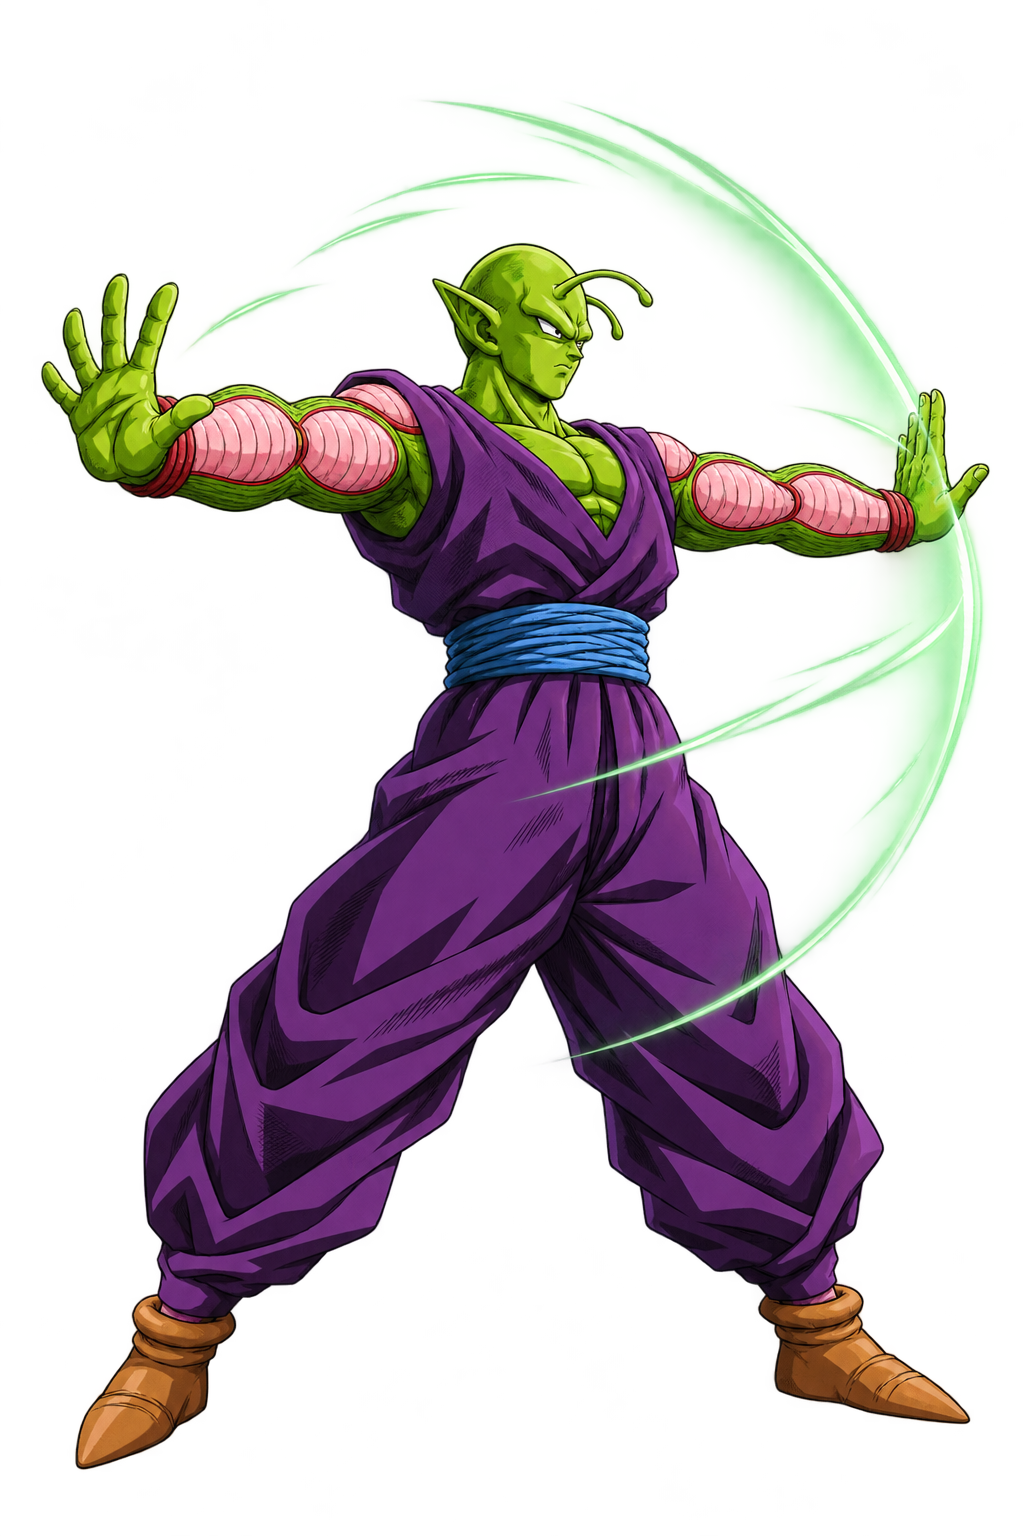
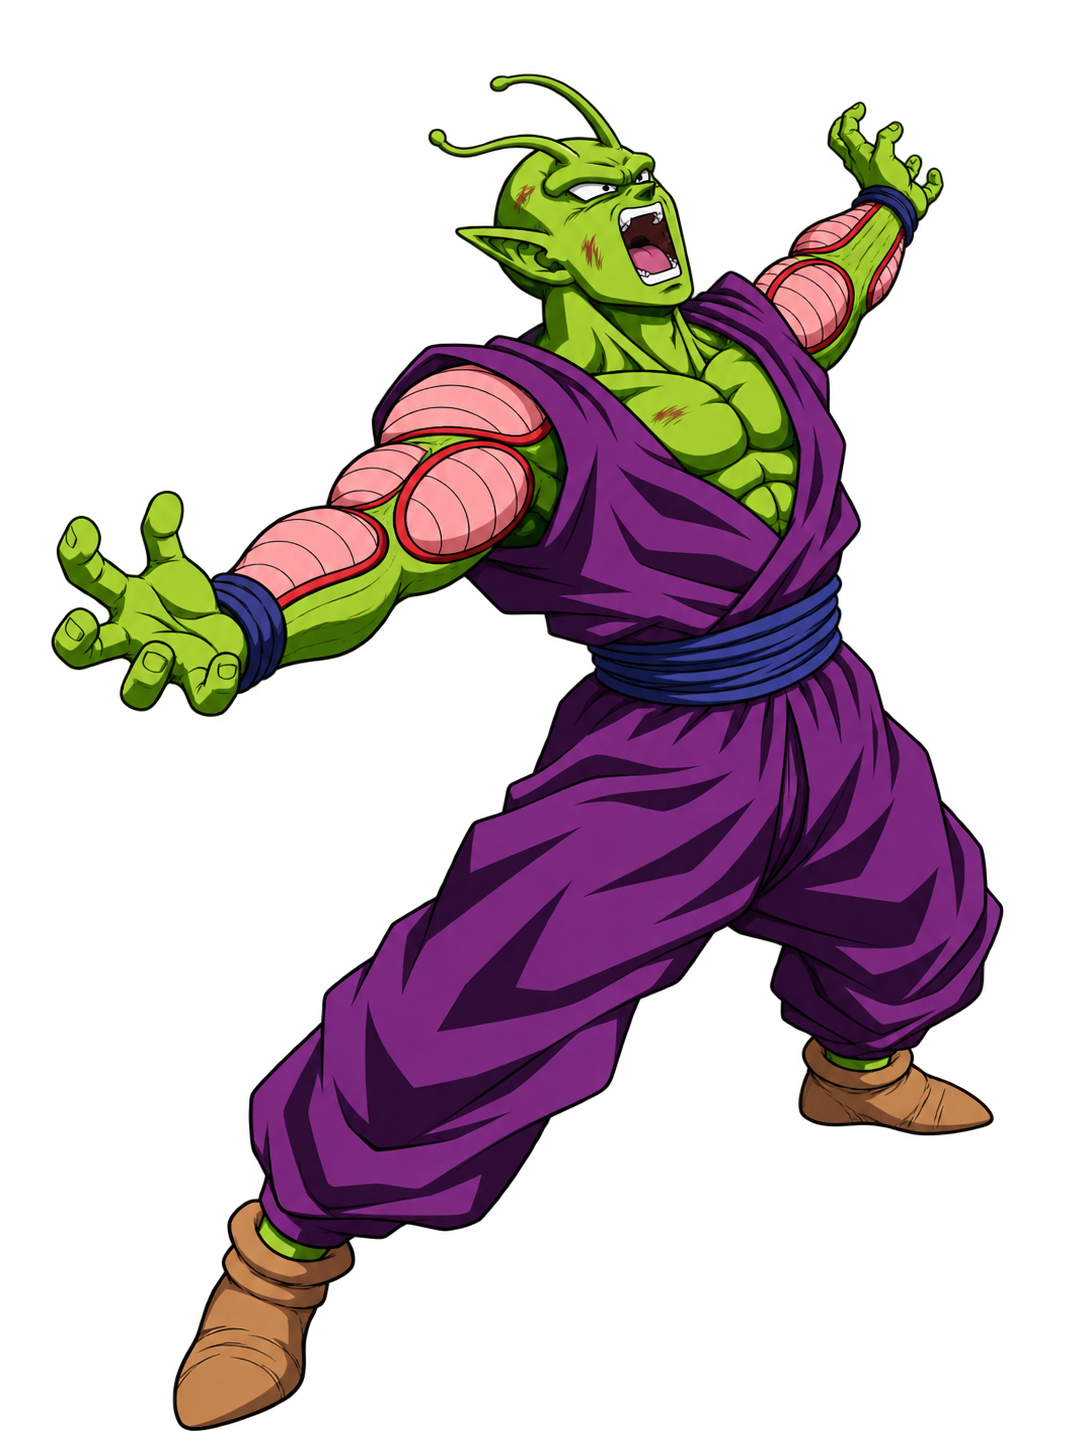
art: integrate approved Piccolo portrait and reference workflow

diff --git a/Tools/InspectPortraits.cs b/Tools/InspectPortraits.cs
@@ -8,7 +8,9 @@ class InspectPortraits {
  static void Main(string[] args){try{
   var files=Directory.GetFiles(args[0],"*-portrait.png");if(files.Length!=9&&args.Length<2)throw new Exception("Expected 9 independent portraits");
   foreach(var path in files)using(var png=new Bitmap(path)){
-   int w=png.Width,h=png.Height;if(w!=1024||h!=1536)throw new Exception("Unexpected portrait resolution: "+path);
+   int w=png.Width,h=png.Height;
+   bool expectedSize=Path.GetFileName(path)=="piccolo-test-portrait.png"?w==1086&&h==1448:w==1024&&h==1536;
+   if(!expectedSize)throw new Exception("Unexpected portrait resolution: "+path);
    var locked=png.LockBits(new Rectangle(0,0,w,h),ImageLockMode.ReadOnly,PixelFormat.Format32bppArgb);
    byte[] pixels=new byte[locked.Stride*h];Marshal.Copy(locked.Scan0,pixels,0,pixels.Length);int stride=locked.Stride;png.UnlockBits(locked);
    int clear=0,solid=0,edge=0;
@@ -17,7 +19,7 @@ class InspectPortraits {
     if(alpha>64&&(x<3||x>=w-3||y<3||y>=h-3))edge++;
    }
    if(clear<w*h/5||solid<w*h/20||edge>8)throw new Exception("Portrait transparency/content/margin failed: "+Path.GetFileName(path)+" clear="+clear+" solid="+solid+" edge="+edge);
-   Console.WriteLine("PORTRAIT_PASS "+Path.GetFileName(path)+" 1024x1536 / alpha / margins");
+   Console.WriteLine("PORTRAIT_PASS "+Path.GetFileName(path)+" "+w+"x"+h+" / alpha / margins");
   }
  }catch(Exception e){Console.WriteLine(e.Message);Environment.Exit(1);}}
 }

diff --git a/Assets/DragonIdle/Presentation/BattleArtSmoke.cs b/Assets/DragonIdle/Presentation/BattleArtSmoke.cs
@@ -7,7 +7,10 @@ namespace DragonIdle {
   void RunBattleArtSmoke(string dir){
    foreach(int i in Enumerable.Range(0,Data.Cards.Length)){
     var texture=FighterTexture(i);var regions=Regions(i);
-    var portrait=PortraitTexture(i);AssertSmoke(portrait!=null&&portrait!=texture&&(PortraitKey(i).StartsWith("CharaOriImg/")?portrait.width>=256&&portrait.height>=256:portrait.width==1024&&portrait.height==1536),"Portrait missing, too small or using battle atlas: "+Data.Cards[i].Id);
+    var portrait=PortraitTexture(i);
+    var cardId=Data.Cards[i].Id;
+    var expectedSize=cardId=="piccolo-test"?new Vector2Int(1086,1448):new Vector2Int(1024,1536);
+    AssertSmoke(portrait!=null&&portrait!=texture&&portrait.width==expectedSize.x&&portrait.height==expectedSize.y,"Portrait missing, resized or using battle atlas: "+cardId);
     AssertSmoke(texture!=null&&texture.width==1536&&texture.height==1024,"Atlas resource missing/rescaled: "+Data.Cards[i].Id);
     AssertSmoke(regions.frames.Length==13&&regions.frames.All(r=>r.w>0&&r.h>0&&r.x>=0&&r.y>=0&&r.x+r.w<=texture.width&&r.y+r.h<=texture.height),"Bad sprite import bounds");
     for(int f=0;f<13;f++){

diff --git a/Assets/DragonIdle/Presentation/GallerySmoke.cs b/Assets/DragonIdle/Presentation/GallerySmoke.cs
@@ -81,6 +81,8 @@ namespace DragonIdle {
    foreach(int i in Enumerable.Range(0,Data.Cards.Length)){
     selectedCard=i;DrawGalleryDetail();var images=detailRoot.GetComponentsInChildren<UI.RawImage>();AssertSmoke(images.Length==1,"Detail art missing");
     AssertSmoke(images[0].texture==PortraitTexture(i)&&images[0].texture!=FighterTexture(i)&&images[0].uvRect==new Rect(0,0,1,1),"Detail reused atlas or cropped portrait UV");
+    var rect=images[0].rectTransform.rect;var image=images[0].texture;
+    AssertSmoke(Mathf.Abs(rect.width/rect.height-image.width/(float)image.height)<.001f,"Detail distorted portrait aspect: "+Data.Cards[i].Id);
    }
    AssertSmoke(galleryCanvas.GetComponent<UI.CanvasScaler>().screenMatchMode==UI.CanvasScaler.ScreenMatchMode.Expand,"UI aspect ratio scaler incorrect");
    File.WriteAllText(Path.Combine(dir,"gallery-refresh-smoke.json"),"{\"dedicatedDetail\":true,\"cardCache\":true,\"focusReturn\":true,\"roundedSurfaces\":true,\"individualFilterClear\":true,\"fullPortraitAspect\":true,\"enabledTextContrast\":true,\"viewportMath\":[\"1280x720\",\"1600x900\",\"1920x1080\",\"2560x1080\"],\"renderVerified\":false}");

diff --git a/Assets/DragonIdle/Presentation/ChapterViews.cs b/Assets/DragonIdle/Presentation/ChapterViews.cs
@@ -6,11 +6,7 @@ namespace DragonIdle {
  public partial class DemoGame {
   bool storyMode=true,saiyanPool=true;
   readonly Dictionary<string,Texture2D> portraits=new Dictionary<string,Texture2D>();
-  static string PortraitKey(int index){
-   string id=Data.Cards[index].Id;
-   if(id=="piccolo-test")return "CharaOriImg/0003";
-   return "V051/"+id+"-portrait";
-  }
+  static string PortraitKey(int index){return "V051/"+Data.Cards[index].Id+"-portrait";}
   Texture2D PortraitTexture(int index){return LoadCharacterTexture(PortraitKey(index));}
   Texture2D FighterTexture(int index){return LoadCharacterTexture("V050/"+Data.Cards[index].Id+"-atlas");}
   Texture2D LoadCharacterTexture(string key){

diff --git a/Assets/DragonIdle/Core/GameData.cs b/Assets/DragonIdle/Core/GameData.cs
@@ -4,7 +4,7 @@ using System.Linq;
 namespace DragonIdle {
  // Card identity and the expanded catalog live in CharacterCatalog.cs.
  public static partial class Data {
-  public const string Version="0.12.1";
+  public const string Version="0.12.2";
   public const string GameTitle="龙珠爆裂激斗";
   public const int FrontSlots=3,TeamSlots=6;
   // Keep the original storage identity when the public game title changes.

diff --git a/README.md b/README.md
@@ -1,10 +1,10 @@
 # 龙珠爆裂激斗 — Unity 技术 Demo
-当前源码 **v0.12.1 角色立绘更新**。个人离线养成游戏的战斗核心与角色构筑原型。发布内容见[本轮记录](Releases/v0.12.1.md)。
+当前源码 **v0.12.2 比克立绘更新**。个人离线养成游戏的战斗核心与角色构筑原型。发布内容见[本轮记录](Releases/v0.12.2.md)。
 GitHub：https://github.com/Icein61/dragonball-idle-unity
 
 ## 下载与试玩
 [查看 Windows x64 Demo 发布附件](https://github.com/Icein61/dragonball-idle-unity/releases)。
-下载对应版本的龙珠爆裂激斗-v0.12.1-Windows-x64.zip，完整解压后运行龙珠爆裂激斗.exe。
+下载对应版本的龙珠爆裂激斗-v0.12.2-Windows-x64.zip，完整解压后运行龙珠爆裂激斗.exe。
 需要Windows，不需要Unity、开发账号或联网。请保留Data目录及附带运行库，不要只复制EXE。
 
 启动时用聚气环显示徽章与角色立绘的实际异步加载进度。主页左侧显示修炼进度与通关状态，右侧提供剧情、奖励和设置。底栏进入人物志、编队、养成、装备和召唤。原剧情和试炼也可从“挑战”进入。
@@ -24,7 +24,7 @@ GitHub：https://github.com/Icein61/dragonball-idle-unity
 - 本地存档/备份、按CardId迁移、811项核心检查、无图形Player测试与Windows打包脚本。
 - 主页和战斗使用雾白、墨青和暖金的原创组件。启动加载显示实际请求进度。
 
-全9卡已接入按阶段/招式区分姿势的C风格1024×1536独立立绘，以及每卡12姿态的2D小人（共108姿态），按事件播放攻击、蓄气、受击、闪避、格挡和倒地。19类招式特效、4种合成战斗音已接入。当前是关键姿态动画，没有3D模型，长期数值尚未定稿。
+全9卡已接入按阶段/招式区分姿势的C风格独立立绘，以及每卡12姿态的2D小人（共108姿态），按事件播放攻击、蓄气、受击、闪避、格挡和倒地。19类招式特效、4种合成战斗音已接入。当前是关键姿态动画，没有3D模型，长期数值尚未定稿。
 游戏名为“龙珠爆裂激斗”，Windows图标为庄严正面悟空与龟仙人小岛；按用户给出的角色图参考修订，原始站点图片不作为运行资源。改名保持旧存档和声音设置目录兼容。动作节奏区分蓄力、飞行、受击与回位，仍使用原12姿态。
 队长标签必须属于本人且允许单标签；定位关键词及逐卡数值为可调整默认；dokkaninfo无法读取，没有导入其素材。C手绘漫画画风已确认，本版采用2D实现，不代表放弃3渲2偏好。
 后台强制静音验证覆盖真实资源请求、uGUI 事件、中文文本高度、导航、聚气数据、召唤保底和声音设置。原创风格现用于启动页、主页、战斗和五个功能页签。可见效果与操作体验待验收。
@@ -52,7 +52,7 @@ GitHub：https://github.com/Icein61/dragonball-idle-unity
 
 后续每个可玩版本仍需对应源码提交、标签、版本说明与可运行PC包。不要提交Library或Builds缓存。
 
-新版简表中的九张上线卡均已接入实战。图鉴展示表内技能原文和实战数值，悟空与贝吉塔已换为确认后的手绘立绘。可见体验待验收。
+新版简表中的九张上线卡均已接入实战。图鉴展示表内技能原文和实战数值，悟空、贝吉塔与比克均使用确认后的手绘立绘。可见体验待验收。
 
 角色页已升级暖白圆角主题、四列大卡与独立详情屏，当前有效属性可展开拆解。返回保留浏览状态及键盘焦点；筛选可单独清除，选卡不重建列表。第二阶段编队、养成、装备也已接入，角色上下文与装配比较见docs/engineering/workshop-v061.md。详见docs/engineering/gallery-v060.md。可见观感与试听仍未验收。
 

diff --git a/docs/production/character-style-c.md b/docs/production/character-style-c.md
@@ -20,6 +20,13 @@
 
 生成新角色时以C作画风参考，以该角色对应阶段的原作资料作造型参考；不要把悟空的脸、肌肉和姿势直接套到所有人身上。所有效果增益文案仍遵守持续时间规则，美术标签不能创造新的数值乘区。
 
+## 比克立绘复盘
+
+- **概念图直接进入生成。** 比克前几轮把旧生成稿当成图像输入，通过文字转述概念图里的动作。改到手指时，表情、肩线和重心也一起漂移。定稿直接把简表概念图作为动作与表情参考，将已认可的上一稿用于手部、线条和配色。
+- **把剧情瞬间定成可核对的画面。** 这张卡表现比克替悟饭挡攻击。先对照头部后仰与张口、肩线倾斜、双臂一高一低、双脚前后错开，再查手指、衣褶和透明边缘。仅出镜比克，保持被保护者在画外。闭口凝视改变了剧情瞬间，已由用户否决。
+- **逐轮保留用户认可的部分。** 用户认可手部时，手部继续作为明确参考。改变姿势、表情或镜头前，先在概念图上核对对应部位。若同一动作连续偏离，优先用骨架草图或姿势控制先确认结构，再渲染 C 风格；本次定稿采用直接双图参考，未使用外部姿势模型。
+- **保留用户确认的原图。** v0.12.2 将 1086 × 1448 透明 PNG 原样接入，界面等比显示全图。
+
 ## 实现边界
 
 画风选择已完成；2D骨骼、逐帧或3渲2是实现手段，须以同一C视觉目标验证。2026-11-16用户明确：完整角色需要战斗形象、动作和技能特效，偏好3渲2也接受2D小人，不接受纯文字作为最终战斗表现。下一步先完成迎战拉蒂兹时期悟空的动作与特效样板，再拓展同场比克、拉蒂兹；不先批量扩充新角色。

diff --git a/docs/STATUS.md b/docs/STATUS.md
@@ -3,7 +3,9 @@
 
 ## 当前阶段
 
-v0.12.1 接入已确认的悟空与贝吉塔立绘。比克张臂保护的新稿进入独立评审，游戏内当前比克仍读取原概念图。
+v0.12.2 接入用户确认的比克「萌芽的心」立绘。沿用独立立绘资源路径，原 PNG 保留 1086 × 1448 尺寸并按比例显示。比克立绘复盘已写入 [C 版角色美术规范](production/character-style-c.md#比克立绘复盘)。
+
+v0.12.1 接入已确认的悟空与贝吉塔立绘。
 
[1 lines of base64/hex data omitted]
 

diff --git a/docs/verification/acceptance.md b/docs/verification/acceptance.md
@@ -99,6 +99,8 @@
 - 元气弹举手/气圆斩托举清晰可辨；三张悟空、两张比克动作轮廓明显不同。其他角色以技能/定位形成不同手势、重心和方向。
 - alpha/图幅边缘检查通过；V050图集与切图文件无改动。窗口权限未恢复，可见画面验收仍延期。
 
+v0.12.2 的比克立绘按用户确认的 PNG 保留 1086 × 1448，资源检查核对原始尺寸、透明度、边缘和来源哈希。Player 检查所有卡从独立立绘路径获取资源，人物志按源图比例显示完整纹理。
+
 ## v0.6.1 工坊验收
 - 三前四后换位/替补无重复，队长覆盖更新，三组预设可保存载入。
 - 培养/共鸣资源不足禁用，策略与双技能槽可保存，重复技能拒绝；珠子无损拆卸。

diff --git a/Releases/v0.12.2.md b/Releases/v0.12.2.md
@@ -1,0 +1,3 @@
+# v0.12.2 比克立绘
+
+比克「萌芽的心」采用已确认的单人手绘立绘。身形后仰、双臂一高一低张开，体现舍身挡下攻击的瞬间。原图以 1086 × 1448 透明 PNG 接入，所有立绘入口等比显示。
